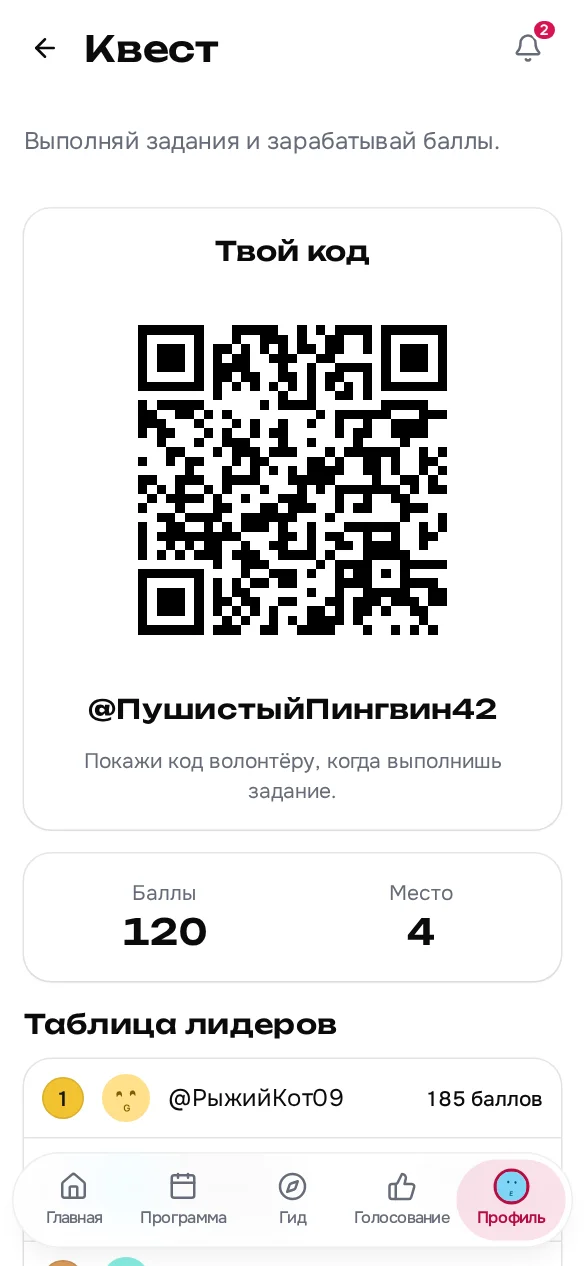
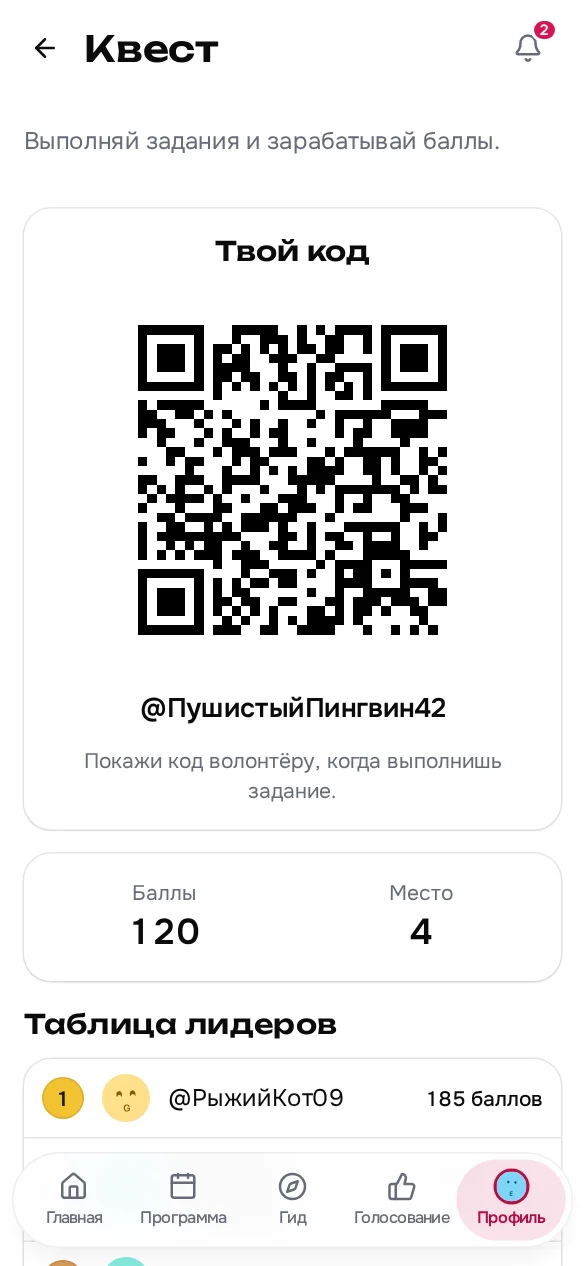
fix(frontend): keep data and scan labels in onest, set article heads in unbounded
Quest points, rank and username, and the schedule's repeated block titles,
take font-sans: data and scan labels stay in Onest (DESIGN.md §3). Guide
article h2s use the variant [&_h2]:text-section, which the base-layer
family rule can't match, so they add [&_h2]:font-display.

Claude-Session: https://claude.ai/code/session_01GGCdtb5EeVjHHRSBY2mG9w

diff --git a/frontend/src/routes/(app)/(protected)/profile/quest/+page.svelte b/frontend/src/routes/(app)/(protected)/profile/quest/+page.svelte
@@ -106,7 +106,7 @@
 		/>
 		<!-- The fallback when the camera won't read the code: the volunteer's tool
 		     can find the player by this name. -->
-		<p class="text-section text-foreground"><Username username={user.username} /></p>
+		<p class="font-sans text-section text-foreground"><Username username={user.username} /></p>
 		<p class="text-sm text-muted-foreground">{m.quest_code_hint()}</p>
 	</Card.Root>
 {/if}
@@ -116,13 +116,13 @@
 		<dl class="grid auto-cols-fr grid-flow-col gap-4 text-center">
 			<div>
 				<dt class="text-sm text-muted-foreground">{m.quest_summary_points()}</dt>
-				<dd class="text-headline text-foreground tabular-nums">{quest.points}</dd>
+				<dd class="font-sans text-headline text-foreground tabular-nums">{quest.points}</dd>
 			</div>
 			<!-- No place until the first points: there is nothing to rank yet. -->
 			{#if quest.rank !== null}
 				<div>
 					<dt class="text-sm text-muted-foreground">{m.quest_summary_rank()}</dt>
-					<dd class="text-headline text-foreground tabular-nums">{quest.rank}</dd>
+					<dd class="font-sans text-headline text-foreground tabular-nums">{quest.rank}</dd>
 				</div>
 			{/if}
 		</dl>

diff --git a/frontend/src/routes/(app)/guide/[slug]/+page.svelte b/frontend/src/routes/(app)/guide/[slug]/+page.svelte
@@ -15,7 +15,7 @@
 <!-- The markdown renders bare elements, so the spacing, list and link style come from here.
      Links stay underlined: colour alone must not mark them (WCAG 1.4.1). -->
 <article
-	class="mx-auto w-full max-w-2xl rounded-2xl border bg-card p-5 text-body leading-relaxed sm:p-6 [&_a]:font-medium [&_a]:text-primary [&_a]:underline [&_a]:underline-offset-4 [&_h2]:mt-6 [&_h2]:text-section [&_li]:mt-1.5 [&_p]:mt-3 [&_p:first-child]:mt-0 [&_ul]:mt-3 [&_ul]:list-disc [&_ul]:ps-5"
+	class="mx-auto w-full max-w-2xl rounded-2xl border bg-card p-5 text-body leading-relaxed sm:p-6 [&_a]:font-medium [&_a]:text-primary [&_a]:underline [&_a]:underline-offset-4 [&_h2]:mt-6 [&_h2]:font-display [&_h2]:text-section [&_li]:mt-1.5 [&_p]:mt-3 [&_p:first-child]:mt-0 [&_ul]:mt-3 [&_ul]:list-disc [&_ul]:ps-5"
 >
 	<Content />
 </article>

diff --git a/frontend/src/app.css b/frontend/src/app.css
@@ -206,7 +206,10 @@
 
 	/*
 	 * The heading roles carry the display face. A `--text-*` theme key can't set a
-	 * family, so it lives here, in the base layer, where a `font-sans` class still wins.
+	 * family, so it lives here, in the base layer, where a `font-sans` class still wins
+	 * (data and repeated scan labels set in a heading size take it; DESIGN.md §3). It
+	 * matches the literal class only: a variant form such as `[&_h2]:text-section`
+	 * needs its own `[&_h2]:font-display`.
 	 */
 	.text-headline,
 	.text-section {

diff --git a/frontend/src/routes/(app)/schedule/+page.svelte b/frontend/src/routes/(app)/schedule/+page.svelte
@@ -345,7 +345,7 @@
 		>
 			<!-- min-h-11 is load-bearing: the nomination header sticks 2.75rem below this one. -->
 			<div class="flex min-h-11 items-center justify-between gap-3 px-1">
-				<h2 class="truncate text-section tracking-tight text-foreground">
+				<h2 class="truncate font-sans text-section tracking-tight text-foreground">
 					{block.title}
 				</h2>
 				<span class="shrink-0 text-xs text-muted-foreground tabular-nums">
